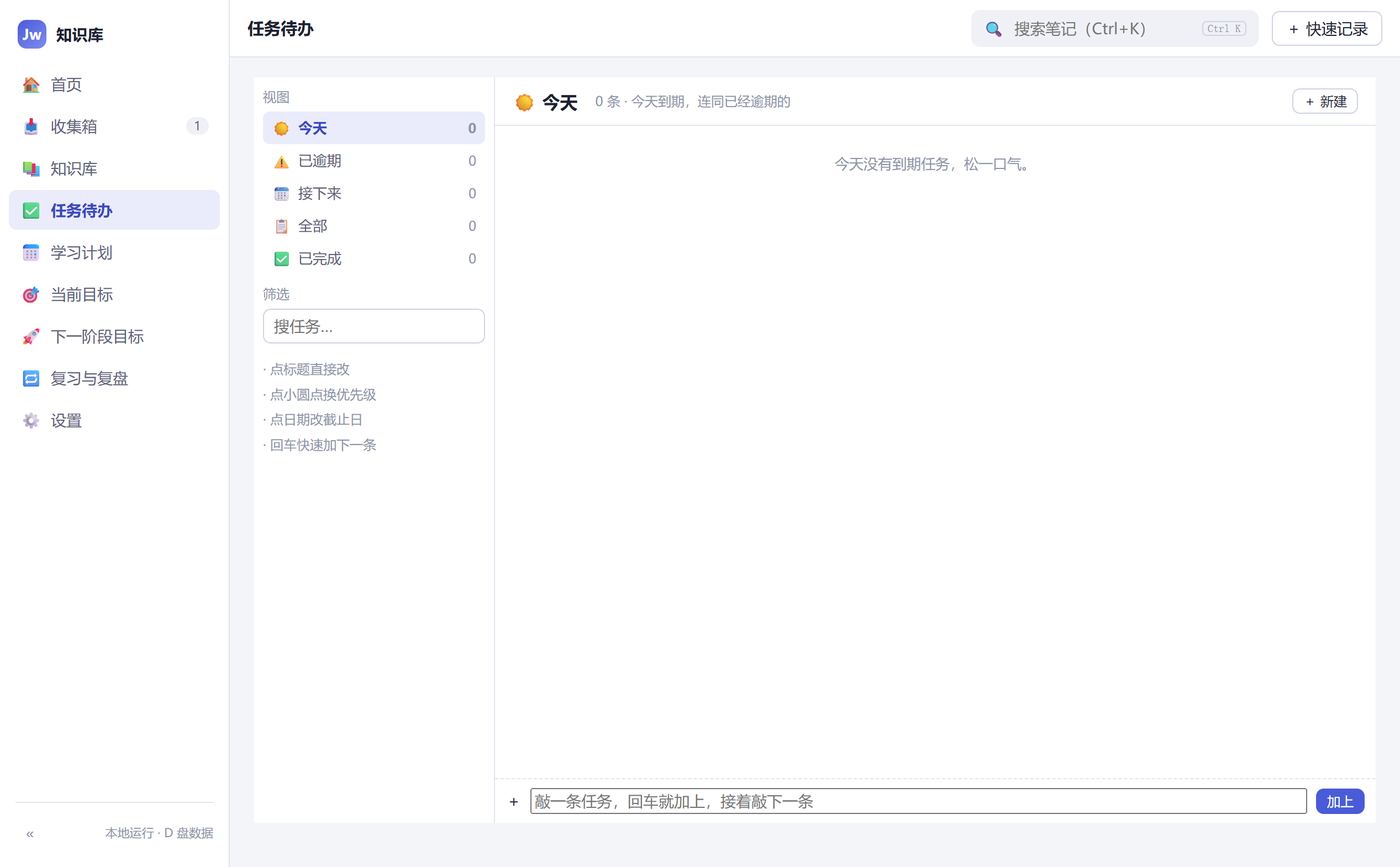
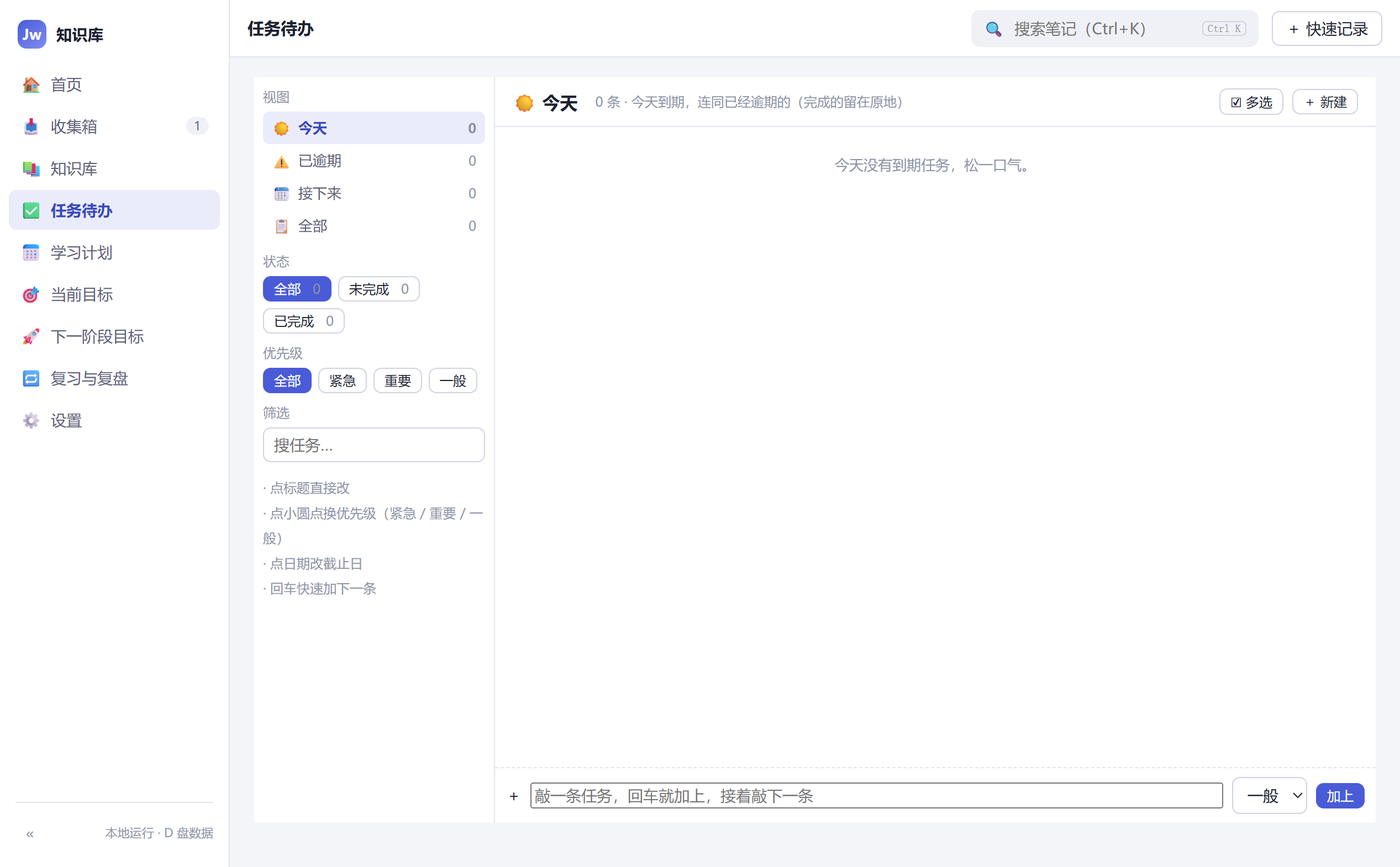
第三版收尾：文档同步到 0.3.0（功能分析文档/开发计划/验收清单/README）+ 版本号 0.3.0
- 功能分析文档：知识库/任务两节按第三版重写，数据模型升到 schema v4，补 v3/v4 迁移说明与新的排序规则，现状盘点与测试规模更新
- 开发计划：追加「第三版执行记录」（数据层 v3/v4、八项落地位置、验证结果、六条踩坑）
- 验收清单：新增「第三版新增内容与对应证据」十二行表，测试规模更新为 176/146
- README：安装包路径改成 0.3.0

diff --git a/功能分析文档.md b/功能分析文档.md
@@ -2,8 +2,8 @@
 
 | | |
 |---|---|
-| 对应版本 | 0.2.0（第二版交付版） |
-| 对应代码 | `main` 分支 `5ec31c4` |
+| 对应版本 | 0.3.0（第三版交付版） |
+| 对应代码 | `main` 分支（第三版最新提交） |
 | 日期 | 2026-10-16 |
 | 配套文档 | [PRD.md](PRD.md)（需求原文）、[开发计划.md](开发计划.md)（实施记录）、[验收清单.md](验收清单.md)（可动手检查的验收项）、[README.md](README.md)（怎么装、怎么用） |
 | 本文档回答 | 每个模块为什么存在、边界在哪；每个功能背后有哪些数据对象和操作；功能之间怎么耦合、哪里最容易断；现在做到了什么程度 |
@@ -126,16 +126,21 @@ flowchart LR
 - **用途**：想清楚的东西长期留下来。
 - **核心对象**：`category`（树）、`note`、`tag` + `note_tag`、`attachment`、`note_version`。
 - **关键操作**：
-  - 笔记：`note:list / get / create / draft / save / move / pin / trash / restore / purge / empty-trash`
+  - 笔记：`note:list / get / create / draft / save / move / pin / trash / restore / purge / empty-trash`、`note:reorder`（拖动排序写位次）
   - 版本：`version:list / rollback`（保存时写版本点，可回滚，编辑器里有行级 diff）
   - 标签：`tag:list / set`；搜索：`search:query / reindex`
+  - 分类：`category:tree / create / rename / move / delete`
   - 附件：`attach:add`（对话框选文件）、`attach:add-path`（拖拽进编辑器，走 preload 的 `webUtils.getPathForFile` 拿真实路径）、`attach:open / delete`
 - **业务规则**：
-  - 编辑器是 Markdown（CodeMirror），草稿自动写、手动 `Ctrl+S` 落版本。
+  - **第三版起编辑器是所见即所得（`contenteditable`）**：加粗 / 斜体 / 下划线 / 字色 / 背景高亮 / 撤销 / 重做；表格可插入并增删行列。存盘时正文以 `content_html` 存 HTML，`content` 存同一篇的纯文字（全文搜索、字数、版本对比都用它）。
+  - **HTML 全链路清洗**（`src/shared/html.ts` 的 `sanitizeHtml`）：白名单标签 + 白名单属性；`<script>`、`on*`、`javascript:`、`iframe` 一律拿掉；`<font color>`（Chromium、Word 粘贴的产物）翻成 `<span style>` 后保留。
+  - **图片复制进数据目录** `attachments/YYYY-MM/`，正文里只存 `jw-att://attachments/…` 相对地址，渲染由主进程注册的 `jw-att://` 协议负责（越界 403、缺文件 404）；**删除笔记不会连带删图**，避免误删。
+  - **拖动排序**：同一分类内拖动换位，松手先本地重排再 `note:reorder` 写库；只在「当前分类、没有搜索关键字、没有标签筛选」时允许拖（此时列表顺序本来就经过筛选，写库会误伤）。
+  - **分类**：支持多层（`parent_id`）；每个分类行可「↑ / ↓」同层换位；**分类下还有笔记就删不掉**（递归连子分类的笔记一起数，回收站里的不算），提示「该分类下还有笔记，请先移动或删除笔记」；删空分类时子分类上提一级并排到新一层末尾。
+  - **手动保存**：编辑器头部的「保存」（同 `Ctrl+S`）立即写盘并提示「已保存 HH:MM:SS」，失败按原因分诊（占用 / 权限 / 磁盘满 / 库损坏）。草稿仍然自动留、失焦即存，两者不冲突。
   - 删除是软的，进回收站；清空回收站是少数需要确认框的操作之一。
-  - 拖进编辑器的文件复制进数据目录的附件区，数据库只存相对路径。
 - **依赖**：被复习引用（`review:from-note`），被首页「最近笔记」引用。
-- **缺口**：附件只能调用系统默认程序打开，没有内嵌预览（图片/PDF）；搜索只有关键词，没有正则/字段限定（PRD 均列为第二版项）。
+- **缺口**：附件只能调用系统默认程序打开，没有内嵌预览（PDF 等）；搜索只有关键词，没有正则/字段限定；「清理未被引用的图片」还没做（清单里列为后续可选）。
 
 ### 3.4 学习计划
 
@@ -153,14 +158,15 @@ flowchart LR
 
 - **用途**：具体到某天某时要完成的事。
 - **核心对象**：`task(id, title, note, status, priority, due_at, remind_at, repeat_rule, goal_id, plan_id, created_at, done_at)`。
-- **关键操作**：`task:list / counts / create / update / toggle / delete`。
+- **关键操作**：`task:list / counts / create / update / toggle / delete / delete-many`。
 - **业务规则**：
-  - **优先级四档**：`0 无 / 1 低 / 2 中 / 3 高`，列表点击循环切换，排序按 `priority desc` 再按时间。
-  - **五个视图**：今天 / 逾期 / 即将 / 全部 / 已完成（`task:counts` 提供各视图条数）。
+  - **优先级三档（第三版起）**：`urgent 紧急（红）/ important 重要（橙）/ normal 一般（蓝）`；列表按 `case priority when 'urgent' then 0 when 'important' then 1 else 2 end` 再按时间排序；左栏可按某一档筛选。老库里的数字（3/2/1/0）由 v4 迁移一次性转成文字，后端 `toPriority()` 也会把传进来的数字归一。
+  - **勾完不消失**：今天 / 逾期 / 即将三个视图**不过滤已完成**，完成的任务显示为灰色 + 删除线并排在最后；另有独立的「全部 / 未完成 / 已完成」三档状态筛选（`taskCounts()` 提供条数）。
+  - **多选与批量删除**：左栏「多选」进入多选模式（每行复选框、全选 / 取消全选），「批量删除」先弹确认框，后端 `task:delete-many` → `db.deleteTasks(ids)` 软删并返回真删条数。
   - `remind_at` 存本地时间 `YYYY-MM-DD HH:MM`，到点由主进程弹 Windows 通知；没有 `remind_at` 时按 `due_at` 当天提醒，已逾期的改成「已逾期」文案。
   - **重复任务真的会生成下一条**：`repeat_rule ∈ {daily 每天, weekdays 工作日, weekly 每周, monthly 每月}`，勾成完成时按 `due_at` 推算出下一次日期并新建一条，保留标题、备注、优先级、重复规则和关联的目标/计划（`src/main/db.ts:1153-1163`）。
-  - 删除给 5 秒撤销提示，不拦截。
-  - 详情抽屉里可以挂到「当前目标」和「学习计划」上。
+  - 删除给 5 秒撤销提示，不拦截（批量删除则确认后直接删，不再给撤销）。
+  - 详情抽屉里可以挂到「当前目标」和「学习计划」上，抽屉里有独立的「保存」按钮（优化项 8）。
 - **依赖**：任务完成率喂给「当前目标」进度；任务到期喂给首页「今日待办」。
 - **缺口**：重复任务生成的下一条**不继承 `remind_at`**——设了提醒时间的重复任务，从第二条开始提醒就没了。
 
@@ -232,9 +238,9 @@ flowchart LR
 | 分组 | 表 | 说明 |
 |---|---|---|
 | 基础 | `meta` | 设置键值、计数等元信息 |
-| 知识库 | `category`、`note`、`tag`、`note_tag`、`attachment`、`note_version` | 分类树 + 笔记 + 标签多对多 + 附件 + 版本点 |
+| 知识库 | `category`、`note`、`tag`、`note_tag`、`attachment`、`note_version` | 分类树（多层 + `sort_order` 同层顺序）+ 笔记（`content` 纯文字 / `content_html` 富文本 / `sort_order` 分类内顺序）+ 标签多对多 + 附件 + 版本点 |
 | 收集箱 | `inbox_item` | 中转站，`status` 三态 + `ref` 追溯 |
-| 任务 | `task` | 优先级四档、`due_at`、`remind_at`、`repeat_rule`、两个外键 |
+| 任务 | `task` | 优先级三档（文字）、`due_at`、`remind_at`、`repeat_rule`、两个外键 |
 | 目标 | `goal`、`goal_key_result`、`milestone` | `is_current` + 3 个上限由代码保证 |
 | 目标池 | `goal_pool` | 方向池，`goal_id` 指回启动后生成的目标 |
 | 学习计划 | `plan`、`plan_item` | 周期 + 某天的一条内容 |
@@ -242,12 +248,13 @@ flowchart LR
 
 ### 4.2 版本与迁移
 
-- 当前 `SCHEMA_VERSION = 2`（`src/main/db.ts:373`）。
-- 打开数据库时如果 `PRAGMA user_version < 2`，走 `migrate()`：用 `addColumnIfMissing()` 补列
-  `task.remind_at`、`goal_pool.priority / horizon / est_start / goal_id`、`plan.rhythm`、`plan_item.done_at`、`review_card.lapses`，
-  再建 `milestone`、`review_log`、`retrospective` 三张表，最后把 `user_version` 写成 2。
-- 迁移是**幂等**的（重复打开不会出错），并且已经拿真实的第一版数据库（`user_version = 1`，6 条任务、1 条收集箱、1 个标签）实测过：升级后新表新列都在、老数据条数不变、`integrity_check = ok`。
-- `tests/unit/migrate.test.ts` 用手写的 v1 老 schema 把这个过程固化成了回归测试。
+- 当前 `SCHEMA_VERSION = 4`（`src/main/db.ts`）。打开数据库时按 `PRAGMA user_version` 逐级补齐，最后写回最新版本号。
+- **v2**：`addColumnIfMissing()` 补列 `task.remind_at`、`goal_pool.priority / horizon / est_start / goal_id`、`plan.rhythm`、`plan_item.done_at`、`review_card.lapses`，再建 `milestone`、`review_log`、`retrospective` 三张表。
+- **v3**：补 `note.content_html`、`note.sort_order`、`note_version.content_html`，建索引 `idx_note_sort(category_id, sort_order)`，然后在事务里跑 `backfillNoteHtml()`（把老笔记的 Markdown 转成 HTML，草稿也转）与 `backfillNoteSort()`（按 `updated_at desc` 在分类内铺 1..n，保证升级后顺序不变）。
+  - 坑：这个索引**不能**放在 `SCHEMA` 常量里——老库的 `note` 表还没有 `sort_order`，索引会先于补列执行并报 `no such column: sort_order`。
+- **v4**：`update task set priority = case when cast(priority as integer) >= 3 then 'urgent' when cast(priority as integer) = 2 then 'important' else 'normal' end where typeof(priority) <> 'text'`，把数字优先级转成文字三档；靠 `typeof` 判断保证重复打开不会把已转好的又降回 `normal`。后端另有 `toPriority()` 把传进来的数字也归一。
+- 迁移是**幂等**的（重复打开不会出错），并且已经拿真实的第一版数据库（`user_version = 1`，6 条任务、1 条收集箱、1 个标签）实测过：升级后新表新列都在、老数据条数不变、`integrity_check = ok`；第三版的库升第四版也实测过。
+- `tests/unit/migrate.test.ts` 用手写的 v1/v2/v3 老 schema 把这三步都固化成了回归测试。
 
 ### 4.3 关系设计的三条原则
 
@@ -267,8 +274,10 @@ flowchart LR
 | 当前目标上限 | 3 个，超出抛错 | `src/main/db.ts:1335` |
 | 池项启动 | 建当前目标 + 回写 `goal_id` + `status='started'`，不可重复 | `src/main/db.ts:1656` |
 | 复习间隔 | 阶梯 `[1,2,4,7,15,30,60,120]`，记得进档 / 模糊 ×0.6 / 忘了归零 | `src/main/db.ts:1843` |
-| 任务排序 | `priority desc`，再按时间 | `src/main/db.ts:1017` |
+| 任务排序 | 未完成在前（`case when status='done' then 1 else 0 end`），再 `case priority when 'urgent' then 0 …`，再按截止日 | `src/main/db.ts` 的 `listTasks` |
+| 笔记排序 | 置顶优先，再 `sort_order asc`（拖动排序写的位次），再 `updated_at desc` | `src/main/db.ts` 的 `listNotes` |
 | 任务提醒判定 | `status='todo'` 且（`remind_at <= now` 或 `due_at` 的日期 <= 今天） | `src/main/db.ts:1180` |
+| 分类能不能删 | 递归数「本分类 + 子分类」里未删除的笔记，> 0 就拒绝 | `src/main/db.ts` 的 `deleteCategory` |
 | 复盘主键 | `(type, date)`，周取其所在周的周一，月取当月 1 号 | `src/main/db.ts:2050/2078` |
 
 ---
@@ -295,19 +304,19 @@ flowchart LR
 | 范围 | 内容 | 验证方式 |
 |---|---|---|
 | 应用外壳 | 单窗口、左侧导航 9 项、顶栏搜索、快捷键（`Ctrl+K` / `Ctrl+N` / `Ctrl+S` / `Ctrl+1..9` / `Ctrl+Alt+Space`）、托盘菜单、关闭到托盘、单实例 | 打包版自检、e2e |
-| 数据层 | 18 张表、schema v2、幂等迁移、完整性检查、WAL 处理 | 单测 + 真实老库迁移实测 |
+| 数据层 | 18 张表、schema v4、幂等迁移（v2 补表补列 / v3 富文本与非空分类顺序回填 / v4 优先级文字化）、完整性检查、WAL 处理 | 单测 + 真实老库迁移实测 |
 | 收集箱 | 增删改、丢弃/恢复、四路转出（笔记/任务/目标/计划） | e2e |
-| 知识库 | 三栏、分类树、Markdown 编辑、版本点与回滚、标签、全文搜索、回收站、附件（对话框 + 拖拽） | e2e（含 `attach:add-path` 全链路） |
-| 任务 | 五视图、优先级四档、截止/提醒、重复任务（每天/工作日/每周/每月，完成自动生成下一条）、关联目标与计划、撤销删除 | 单测（`tests/unit/db.test.ts:385-430`）+ e2e |
+| 知识库 | 三栏、分类树（↑↓ 同层排序、非空禁删）、富文本编辑（加粗/字色/高亮/插图/表格/撤销重做）、版本点与回滚、标签、全文搜索、拖动排序、回收站、附件（对话框 + 拖拽 + `jw-att://` 显示） | 单测（`richtext`/`reorder`/`category`）+ e2e（含真实 DragEvent 与 1×1 图片渲染） |
+| 任务 | 四视图 + 状态三档筛选、优先级三档（紧急/重要/一般）、勾选不消失、多选批量删除、截止/提醒、重复任务（每天/工作日/每周/每月，完成自动生成下一条）、关联目标与计划、撤销删除 | 单测 + e2e |
 | 学习计划 | 计划 + 条目 + 日历视图 + 挂目标 | 单测 + e2e |
-| 当前目标 | KR / 里程碑 / 关联任务 / 自动进度 / 3 个上限 / 归档 | 单测 + e2e |
+| 当前目标 | KR / 里程碑 / 关联任务 / 自动进度 / 3 个上限 / 归档 / 手动保存 | 单测 + e2e |
 | 目标池 | 地平线筛选、启动条件、启动转当前目标 | 单测 + e2e |
 | 复习 | 卡片、一键从笔记生成、三档打分、间隔阶梯、错题/难点来源、日志 | 单测 + e2e |
 | 复盘 | 日/周/月、周期区间、周期统计、历史 | 单测 + e2e |
-| 设置 | 数据目录、每日自动备份 + 手动备份/恢复/删除/打开、主题、托盘开关 | e2e |
+| 设置 | 数据目录、每日自动备份 + 手动备份/恢复/删除/打开、主题、托盘开关、手动保存与失败分诊 | e2e |
 | 交付 | 安装包 + 绿色版，交付到 `C:\JwKB\`；打包后自检 15 项 | 打包自检 |
 
-测试规模（当前）：单测 **133 项 / 8 个文件**、端到端 **87 项**、强杀恢复 **6 项**、打包产物自检 **15 项**，`typecheck` 0 错误。
+测试规模（当前）：单测 **176 项 / 12 个文件**、端到端 **146 项**、强杀恢复 **6 项**、打包产物自检 **15 项**，`typecheck` 0 错误、`npm run test:all` 整体 exit 0。
 
 ### 7.2 部分完成
 
@@ -320,7 +329,7 @@ flowchart LR
 
 ### 7.3 未做（PRD 里明确暂缓或列为后续）
 
-登录/账号、云同步、手机端、数据加密、导入导出（JSON/Markdown）、附件内嵌预览、搜索高级语法、统计图表、自定义配色、多窗口/标签页、图形化数据路径迁移向导。
+登录/账号、云同步、手机端、数据加密、导入导出（JSON/Markdown）、附件内嵌预览（PDF）、搜索高级语法、统计图表、自定义配色、多窗口/标签页、图形化数据路径迁移向导、清理未被引用的图片。
 
 ---
 
@@ -344,8 +353,9 @@ flowchart LR
 
 - **IPC 通道**：`src/main/ipc.ts` 里注册了 **95 个**通道，分布在 21 个命名空间（`app / settings / category / note / version / tag / search / attach / inbox / task / dash / goal / kr / milestone / pool / plan / plan-item / review / retro / backup / data`）。渲染层不直接碰数据库，全部通过 `preload` 暴露的 `window.api`（`src/shared/types.ts` 的 `KbApi`）走 IPC。
 - **数据文件**：`kb.db`（SQLite，WAL 模式）+ 附件目录 + 备份目录，都放在数据根目录下；路径由配置决定，设置页可以打开目录。
-- **测试**：`npm run test:unit`（133 项）、`npm run typecheck`、`node tests/e2e/cdp-check.mjs`（87 项）、`node tests/e2e/kill-test.mjs`（6 项）、`node .tools/check-packaged.mjs`（打包产物 15 项）。
-- **提交历史**：`c7a968d` 第一版 → `6ea081f` 第二版（补齐四个模块）→ `5ec31c4` 交付路径修正。
+- **测试**：`npm run test:unit`（176 项 / 12 个文件）、`npm run typecheck`、`node tests/e2e/cdp-check.mjs`（146 项）、`node tests/e2e/kill-test.mjs`（6 项）、`node .tools/check-packaged.mjs`（打包产物 15 项）；`npm run test:all` 一次跑完前四项。
+- **提交历史**：`c7a968d` 第一版 → `6ea081f` 第二版（补齐四个模块）→ `5ec31c4` 交付路径修正 → `377227a` 富文本+表格 → `31fa599` 勾选不消失/多选 → `2ad6651` 优先级三档 → `016f108` 拖动排序 → `949354d` 分类 → `5a7468d` 手动保存。
+
 
 ---
 

diff --git a/验收清单.md b/验收清单.md
@@ -10,18 +10,18 @@
 | 🖐 | 需要你亲手点一下才能确认（涉及双击、托盘、系统通知、跨天、长时间、关机等，程序没法自己验） |
 | ⚠ | 与 PRD 写法有出入 / 没做到，见文末「遗留」一节 |
 
-**最近一次全量测试结果**（2026-10-16，第二版）
+**最近一次全量测试结果**（2026-10-16，第三版）
 
 | 环节 | 结果 |
 |---|---|
 | `npm run typecheck` | 通过，零错误 |
-| `npm run test:unit` | 8 个文件、**133 项全过** |
+| `npm run test:unit` | 12 个文件、**176 项全过** |
 | `npm run build` | 通过（main / preload / renderer 三段都 built） |
-| `npm run test:e2e` | **87 项全过**（真的启动 Electron，用 CDP 驱动界面） |
+| `npm run test:e2e` | **146 项全过**（真的启动 Electron，用 CDP 驱动界面） |
 | `npm run test:kill` | **6 项全过**（写数据 → 强杀进程 → 重开检查） |
 | 打包产物自检 | **15 项全过**（`C:\JwKB\portable\Jw知识库.exe`，即交付给用户的那份，不是项目内副本） |
 
-> 交付位置：`C:\JwKB\setup\Jw知识库-安装包-0.2.0.exe`（安装版）、`C:\JwKB\portable\`（绿色版）。
+> 交付位置：`C:\JwKB\setup\` 里的安装包（安装版）、`C:\JwKB\portable\`（绿色版）。
 > 2026-10-16 更正：之前 README 里写的「桌面 `Jw知识库安装包\` / `Jw知识库（绿色版）\` 副本」**实际并不存在**
 > —— 那是沙箱把工作区外的写入重定向后、命令行回读产生的假象。现在交付到 `C:\JwKB\`，并且已在新开的
 > 一条命令里核实文件真实存在、安装包能出向导窗口、绿色版自检 15/15。
@@ -34,7 +34,7 @@
 
 | # | 验收项 | 怎么验 | 结果 |
 |---|---|---|---|
-| A1 | 双击图标 3 秒内出现主窗口，无报错无空白 | 双击 `C:\JwKB\setup\Jw知识库-安装包-0.2.0.exe` 装好后，双击桌面图标 | 🖐 打包版能启动、9 个页面都能渲染出来已由自动化验证（15/15）；双击手感和首次 3 秒内出现请你试一次。**注意别去项目目录 `release\` 里双击安装包**，那儿会因为目录权限弹 `NSIS Error: Error writing temporary file` |
+| A1 | 双击图标 3 秒内出现主窗口，无报错无空白 | 双击 `C:\JwKB\setup\Jw知识库-安装包-0.3.0.exe` 装好后，双击桌面图标 | 🖐 打包版能启动、9 个页面都能渲染出来已由自动化验证（15/15）；双击手感和首次 3 秒内出现请你试一次。**注意别去项目目录 `release\` 里双击安装包**，那儿会因为目录权限弹 `NSIS Error: Error writing temporary file` |
 | A2 | 关窗口后进程还在、托盘图标还在 | 点窗口右上角 ×，看右下角托盘 | 🖐 |
 | A3 | 托盘右键 4 个菜单项都能用；打开主窗口后位置大小与关闭前一致 | 右键托盘图标逐个点 | 🖐 窗口位置会被记住（存在设置项 `winBounds` 里） |
 | A4 | 连续双击图标两次，只出现一个窗口 | 连点两下桌面图标 | 🖐 代码里用了 `app.requestSingleInstanceLock()`，第二次启动会把已有窗口拉到前面 |
@@ -143,6 +143,23 @@
 
 - 复习阶梯原本第一格是 2 天，1 天那一格谁都走不到；现在第一次「记得」就是 1 天，再往上 2、4、7……
 - 打包产物的 `installer.nsh` 去掉了检查「程序是否正在运行」的那一步，它原来要写临时文件，会弹出 `NSIS Error: Error writing temporary file`。
+
+## 第三版新增内容与对应证据（2026-10-16 晚）
+
+| 项 | 做了什么 | 证据 |
+|---|---|---|
+| 富文本笔记 | 编辑器换成所见即所得：加粗 / 斜体 / 下划线 / 字色 / 背景高亮 / 撤销 / 重做；重点标注 = 加粗 + 字色 + 背景高亮 | e2e：工具栏存在、按钮数 ≥ 8、选中文字点加粗真的变 `<b>`；点「字体颜色」出 `color:`、点「背景高亮」出 `background-color:`，保存后从库里读回两者都还在 |
+| 笔记图片 | 工具栏选图 / 拖拽 / 粘贴截图三种进法；图片复制进 `attachments/YYYY-MM/`，正文只存 `jw-att://` 相对地址；删笔记不删图 | e2e：插图后 `jw-att://` 能真渲染成 1×1 图、附件夹里真有这个文件、附件表里 `file_name`/`rel_path` 正确 |
+| 笔记表格 | 工具栏选行列插入，光标进单元格后多出「＋行 / －行 / ＋列 / －列」 | e2e：插入后 DOM 里真有 `<table>`、行列按钮各 2 个、表格结构原样存回库里 |
+| 安全清洗 | 存盘前与粘贴时都过白名单：`<script>`、`on*` 事件属性、`javascript:`、`iframe` 一律拿掉；`<font color>`（Chromium 与 Word 粘贴的产物）翻译成 `<span style>` 保留样式 | 单测 `richtext.test.ts` 11 项 + e2e「保存时洗掉了 script / onclick」 |
+| 老笔记迁移 | 库版本升到 3：`note.content_html`、`note.sort_order`、`note_version.content_html` 自动补上；老笔记的 Markdown 一次性转成 HTML，`content` 继续留纯文字（搜索/字数/对比都用它） | 单测 `migrate.test.ts`：手写 v1 老库 → 升级后新列都在、老数据不丢、`content_html` 里有 `<h1>`/`<strong>`、重复打开幂等 |
+| 知识库分类 | 「↑ / ↓」同层换位；分类下还有笔记就删不掉（递归连子分类一起数，回收站不算）；删空分类时子分类上提一级 | 单测 `category.test.ts` 10 项；e2e：删非空分类出提示且分类还在、点 ↑ 真的挪了一位 |
+| 笔记拖动排序 | 拖卡片排序，松手立刻写库，重开顺序不变；只在当前分类、无搜索、无标签筛选时可拖 | 单测 `reorder.test.ts` 11 项；e2e 真的派发整套 DragEvent：拖完顺序变、重挂载后仍是拖完的样子 |
+| 任务勾选不消失 | 今天 / 接下来 / 逾期三个视图不再藏起已完成任务（变灰 + 删除线，排最后）；新增「全部 / 未完成 / 已完成」三档筛选（带条数） | 单测 `db.test.ts`「状态三档筛选 + 勾完不消失」；e2e 9 项数据断言 + 3 项界面断言 |
+| 任务多选批量删除 | 「多选」模式：每行复选框、全选 / 取消全选、「批量删除」前弹确认框；后端 `task:delete-many` | e2e：`.task-row input.pick` 数量、全选后行上出现选中标记、批量删除返回真删条数、删完真的消失 |
+| 优先级三档 | 四档数字（0/1/2/3）→ 三档文字：紧急（红）/ 重要（橙）/ 一般（蓝）；库版本升到 4 自动迁移（3→紧急、2→重要、1 与 0→一般，靠 `typeof(priority)` 保证重开不重复转换）；后端仍把数字归一成文字 | 单测 `format.test.ts`（标签/循环/越界）、`migrate.test.ts`（第三版库升第四版 + 重开不降回去）、`v2.test.ts`（三档能存能排能筛）；e2e 4 项数据 + 3 项界面断言 |
+| 手动保存 | 笔记编辑页 / 目标编辑页 / 任务详情抽屉 / 设置页都有「保存」，点了立即写盘并提示「已保存 HH:MM:SS」；保存中按钮变「保存中…」防连点；自动保存照旧不冲突 | 单测 `save.test.ts` 7 项（四类失败分诊 + 占用优先 + 时间戳补零）；e2e 5 项界面断言（四个页面的保存按钮 + 任务/设置保存后真的弹出「已保存 16:40:27」） |
+| 保存失败分诊 | 被占用 →「数据文件被其他软件占用，请关闭记事本/编辑器后再试」；权限不足 →「无法写入 D 盘，请检查文件夹权限」；磁盘满 →「D 盘空间不够了，腾出空间再保存」；库损坏 →「数据文件读不出来了，去设置页跑一次数据库自检」；其它 → 带原始原因的「保存失败：…」 | 单测 `save.test.ts`；实现见 `src/renderer/src/save.tsx` |
 
 ---
 

diff --git a/开发计划.md b/开发计划.md
@@ -546,3 +546,53 @@ NSIS 安装器启动时会先在自己所在目录写一次临时文件再替换
 > 教训：在这个环境里，**判断「文件是否真的写到工作区之外」不能只看命令行的回读结果**——
 > 沙箱可能把写入重定向，`Test-Path` / `[System.IO.File]::Exists` 都会给你一个假的 True。
 > 可靠做法是：下一条新命令里再 stat 一次，或者干脆交付到 `C:\` 根下这种看得见的目录并请用户确认。
+
+---
+
+# 第三版执行记录（2026-10-16 晚）
+
+需求来自 `功能优化清单-v3.md`（用户逐项确认过），顺序严格 2 → 3 → 4 → 5 → 6 → 7 → 8，一项一提交。
+
+## 1. 数据层（库版本 2 → 4）
+
+| 版本 | 改了什么 | 迁移怎么做的 |
+|---|---|---|
+| v3 | `note.content_html`（富文本正文）、`note.sort_order`（分类内顺序）、`note_version.content_html`；索引 `idx_note_sort(category_id, sort_order)` | `if (current < 3)`：`addColumnIfMissing` 补三列 → 建索引 → 事务里 `backfillNoteHtml()`（老笔记 Markdown → HTML，草稿也转）+ `backfillNoteSort()`（按 `updated_at desc` 在分类内铺 1..n，保证升级后顺序不变） |
+| v4 | `task.priority` 由数字改成文字三档（`urgent`/`important`/`normal`） | `if (current < 4)`：`update task set priority = case when cast(priority as integer) >= 3 then 'urgent' when cast(priority as integer) = 2 then 'important' else 'normal' end where typeof(priority) <> 'text'`（靠 `typeof` 保证重开不重复转换）；后端另有 `toPriority()` 把传进来的数字也归一成文字 |
+
+坑：`CREATE INDEX ... ON note(category_id, sort_order)` 不能放进 `SCHEMA` 常量——老库的 `note` 表还没有 `sort_order`，
+建索引会先于补列执行，报 `Error: no such column: sort_order`。挪进 v3 迁移块、addColumnIfMissing 之后再建。
+
+## 2. 各优化项落地位置
+
+| 优化项 | 主要改动 |
+|---|---|
+| 2 · 富文本 + 图片 | 新 `src/renderer/src/rich.ts`（execCommand 封装、插表格、增删行列）；`src/shared/html.ts`（`sanitizeHtml`/`htmlToPlainText`/`textToHtml`/`attachmentUrl`）；`src/shared/markdown.ts`（从 renderer 搬过来，主进程迁移时要用）；主进程注册 `jw-att://` 协议（`protocol.registerSchemesAsPrivileged` + `protocol.handle`，越界 403、缺文件 404）；`Knowledge.tsx` 编辑区换 `contenteditable` |
+| 3 · 表格 | 同一批：`rich.buildTableHtml/insertTable/addRow/deleteRow/addColumn/deleteColumn` + 工具栏「⊞」弹窗 |
+| 4 · 勾选不消失 + 多选删除 | `listTasks` 的 `today` 视图不再过滤 `status='todo'`，排序改 `case when status='done' then 1 else 0 end asc`；`taskCounts()` 加 `todo`；新 `deleteTasks(ids)` + IPC `task:delete-many`；`Tasks.tsx` 加三档状态筛选 + 多选模式（`pickMode`/`picked`/`confirmBatch`） |
+| 5 · 优先级三档 | 见上表 v4；`format.ts` 的 `PRIORITY_LABEL/ORDER/nextPriority` 换成文字；`Tasks`/`Dashboard`/`Goals`/`Inbox` 的圆点类名改成 `prio-*`；`styles.css` 三色 |
+| 6 · 卡片拖动排序 | 新 `src/renderer/src/reorder.ts`（`applyOrder`/`groupKeyOf`/`moveWithinGroup`，纯函数无 DOM，便于单测）；`Knowledge.tsx` 行挂 `draggable` + 整套 DragEvent，松手先本地重排再 `note:reorder` 写库；只在「当前分类、无搜索、无标签筛选」时允许拖 |
+| 7 · 分类完善 | `db.moveCategory(id,'up'/'down')`（同层换位后重新编号）+ IPC `category:move`；`deleteCategory` 改成先用递归 CTE 数「本分类 + 子分类」里未删除的笔记，> 0 就抛「该分类下还有笔记，请先移动或删除笔记」，删空分类时子分类上提一级排到末尾 |
+| 8 · 手动保存 | 新 `src/renderer/src/save.tsx`（`saveStamp`/`describeSaveError`/`useManualSave`/`SaveButton`）；笔记 / 目标 / 任务抽屉 / 设置四处接上；成功「已保存 HH:MM:SS」，失败按占用 / 权限 / 磁盘满 / 库损坏分诊 |
+
+## 3. 验证结果
+
+| 环节 | 结果 |
+|---|---|
+| `npm run typecheck` | 零错误 |
+| `npm run test:unit` | 12 个文件、176 项全过（新增 `richtext` 11、`reorder` 11、`category` 10、`save` 7，并改写 `migrate`/`format`/`db`/`v2`/`perf` 受影响用例） |
+| `npm run build` | 通过 |
+| `npm run test:e2e` | 146 项全过（含富文本、图片真渲染、表格、拖动排序、分类删除保护、任务多选、优先级、四处保存按钮） |
+| `npm run test:kill` | 6 项全过 |
+
+提交记录（每项一次）：`377227a` 富文本+表格 → `31fa599` 勾选不消失/多选 → `2ad6651` 优先级三档 →
+`016f108` 拖动排序 → `949354d` 分类 → `5a7468d` 手动保存。
+
+## 4. 这一版踩到的坑（都有测试兜着）
+
+- **CSP 挡住插图**：`src/renderer/index.html` 的 `img-src` 只有 `'self' data: file:`，`jw-att://` 的图 `onerror`；补上 `jw-att:`。
+- **字色被清洗吃掉**：Chromium 的 `execCommand('foreColor')` 生成 `<font color>`（和 Word 粘贴同源），而 `font` 不在白名单 → ① `rich.ts` 先 `exec('styleWithCSS','true')` 让浏览器输出 `<span style>`；② `sanitizeHtml` 前置把 `<font color="X">` 翻成 `<span style="color: X">`。
+- **e2e 正则写错**：判定加粗时写了 `/\s*/`（双反斜杠，永远匹配得上），改成先 `replace(/\s+/g,'')` 再匹配。
+- **e2e 里找分类点不着**：`.kb-tree *` 精确比文字比不过带计数的 tree-item，改成在 `.tree-item` 上 `includes`。
+- **插入表格后行列按钮不出现**：不是 bug——光标不在单元格里时工具栏本来就不该有增删行列；测试里补「把光标放进 `td` 并派发 `selectionchange`」。
+- **`applyOrder(list, [单个id])` 不会把它提到最前**：实现的语义是「按给定顺序占位」，单元测试的期望写错了，改测试。

diff --git a/README.md b/README.md
@@ -25,7 +25,7 @@ C:\JwKB\portable\Jw知识库.exe
 
 ### 办法二：安装版（会让桌面出现正式图标、可从控制面板卸载）
 
-安装包：`C:\JwKB\setup\Jw知识库-安装包-0.2.0.exe`（约 108 MB）。
+安装包：`C:\JwKB\setup\Jw知识库-安装包-0.3.0.exe`（约 107 MB）。
 
 1. 双击 → 可能先被 Windows SmartScreen 拦一下，显示「Windows 已保护你的电脑」：
    因为安装包没买代码签名证书，显示「发布者未知」是正常的。点 **「更多信息」→「仍要运行」**。
@@ -119,7 +119,7 @@ npm run build          # 只编译，产出 out\
 
 ```powershell
 npm run typecheck      # TypeScript 类型检查，必须零错误
-npm run test:unit      # 单元测试：数据库、路径、Markdown、备份、性能
+npm run test:unit      # 单元测试：数据库/迁移、富文本清洗、排序、路径、备份、性能
 npm run test:e2e       # 端到端：真的启动 Electron，用 CDP 驱动界面点一遍
 npm run test:kill      # 强杀测试：写 20 条数据后强杀进程，重开看数据还在不在
 npm run test:all       # 上面全部按顺序跑一遍
@@ -190,6 +190,20 @@ C:\JwKB\使用说明.txt
 | **复习与复盘** | 卡片来源分三类：笔记、错题、难点。三档打分（忘了 / 模糊 / 记得），间隔按 1 → 2 → 4 → 7 → 15 → 30 → 60 → 120 天自动拉长，忘了就回到 1 天。每篇笔记可以一键变成复习卡（同一篇不会重复生成）。日 / 周 / 月复盘分开写，旁边自动算出这段时间完成了多少任务、动了多少笔记、复习几次、计划条目完成几条 |
 
 顺手补掉的第一版遗留：拖文件进编辑器直接存成附件、优先级四档（无 / 低 / 中 / 高）、任务的精确提醒时间、任务详情里选关联目标。
+
+### 第三版（笔记与任务的体验补齐，2026-10-16 晚）
+
+| 项 | 现在能做什么 |
+|---|---|
+| **富文本笔记** | 编辑器换成所见即所得：加粗 / 斜体 / 下划线 / 字体颜色 / 背景高亮 / 撤销 / 重做。重点标注就是「加粗 + 字色 + 背景高亮」这一套，Word 里粘过来的样式会被洗干净后保留下来 |
+| **笔记图片** | 工具栏「🖼」选图、也可以直接拖进编辑器或粘贴截图。图片会复制进数据目录的 `attachments/YYYY-MM/`，正文里只存 `jw-att://` 相对地址（换盘符、换目录都不失效）；删除笔记不会连带删图 |
+| **笔记表格** | 工具栏「⊞」选行列数插入；光标放进单元格后工具栏会多出「＋行 / －行 / ＋列 / －列」。表格跟着富文本一起存，重开结构不丢 |
+| **知识库分类** | 分类树支持二三级子分类、新建 / 重命名；每个分类行有「↑ / ↓」在同一层里换位；**分类下还有笔记就删不掉**（会连子分类里的笔记一起数，提示「该分类下还有笔记，请先移动或删除笔记」）；删空分类时子分类自动上提一级 |
+| **笔记卡片拖动排序** | 按住卡片拖动即可排序，松手立刻生效并写库，重开顺序不变；只在「当前分类、没有搜索关键字、没有标签筛选」时可拖，拖动只影响当前分类 |
+| **任务勾选后不消失** | 今天 / 接下来 / 逾期三个视图不再把已完成的任务藏起来——勾完变灰加删除线并排到最后；左栏另有「全部 / 未完成 / 已完成」三档筛选（带条数） |
+| **任务多选与批量删除** | 左栏「多选」进入多选模式：每行一个复选框，可全选 / 取消全选，选中后「批量删除」会先弹确认框再删 |
+| **任务优先级三档** | 由四档数字改成三档文字：紧急（红）/ 重要（橙）/ 一般（蓝）。新建任务、详情抽屉都能选，列表按紧急在前排，左栏可只看某一档；老数据自动迁移（3 → 紧急、2 → 重要、1 和 0 → 一般） |
+| **手动保存** | 笔记编辑页、目标编辑页、任务详情抽屉、设置页都有「保存」按钮，点一下就是一次真写盘，成功提示「已保存 16:40:27」。失败会分诊告诉你原因：被其它软件占用 / 权限不足 / 磁盘满 / 数据文件损坏，各有各的中文提示。自动保存照旧（草稿自动留、失焦即存），两者不冲突 |
 
 **不做**（一直不做）：登录（永久不做）、云同步与联网、手机端、密码锁。
 
